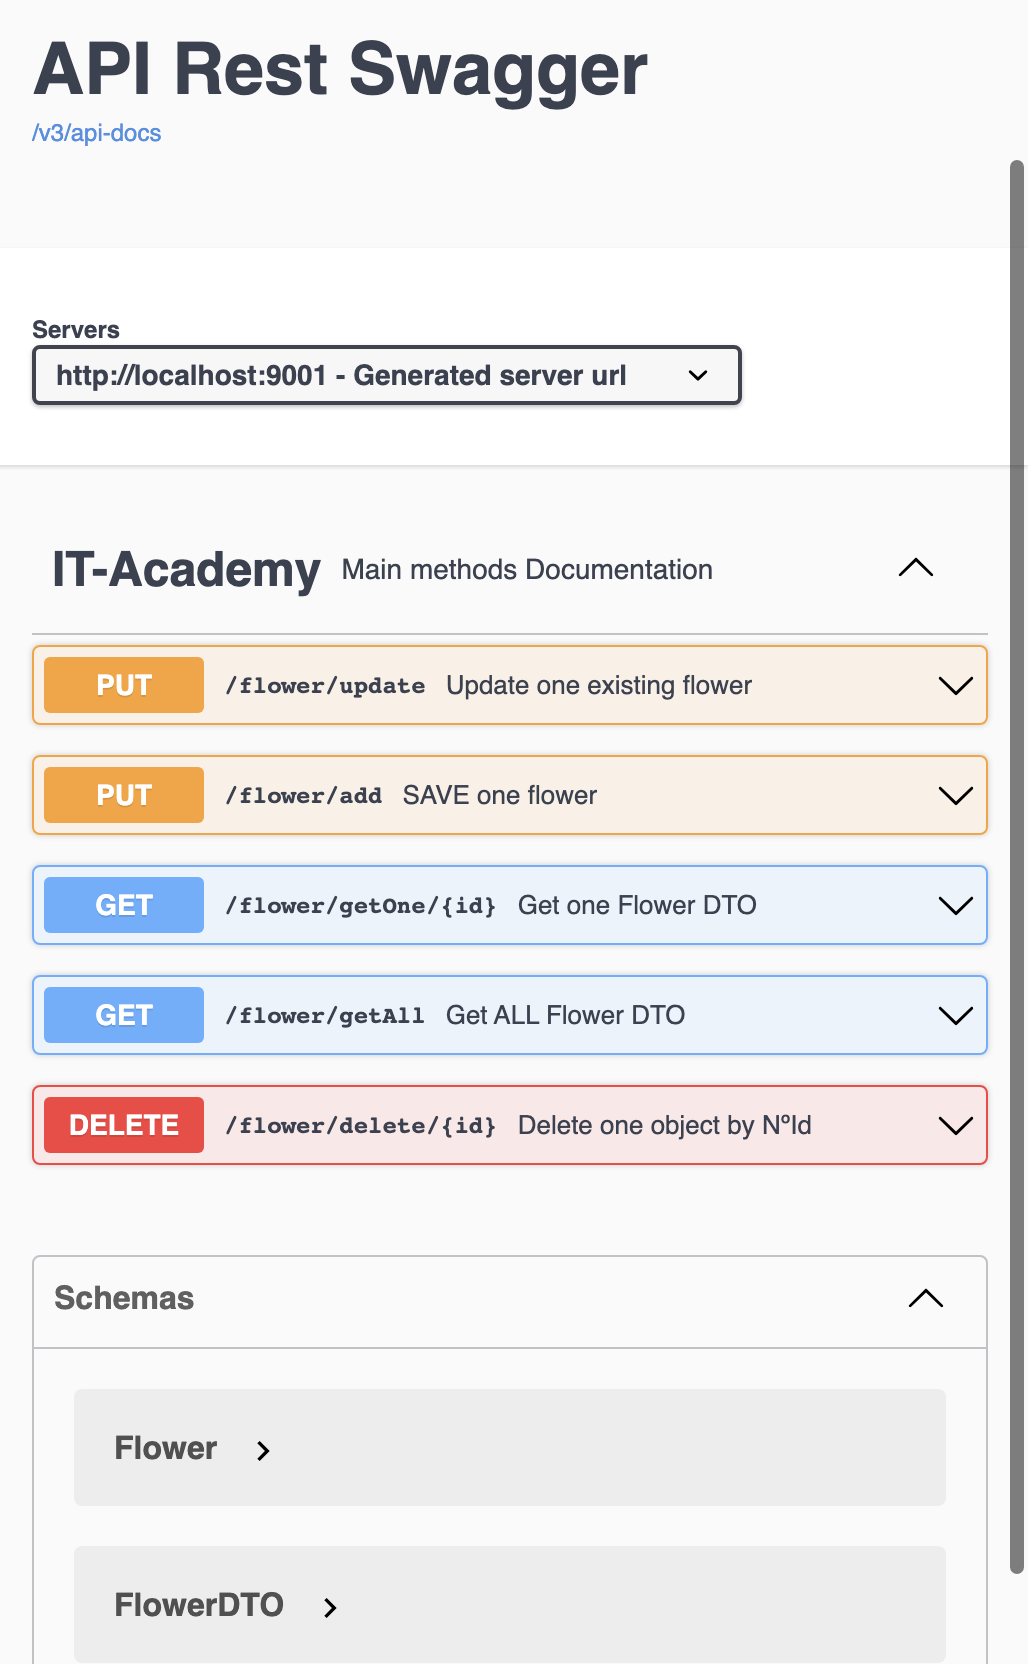
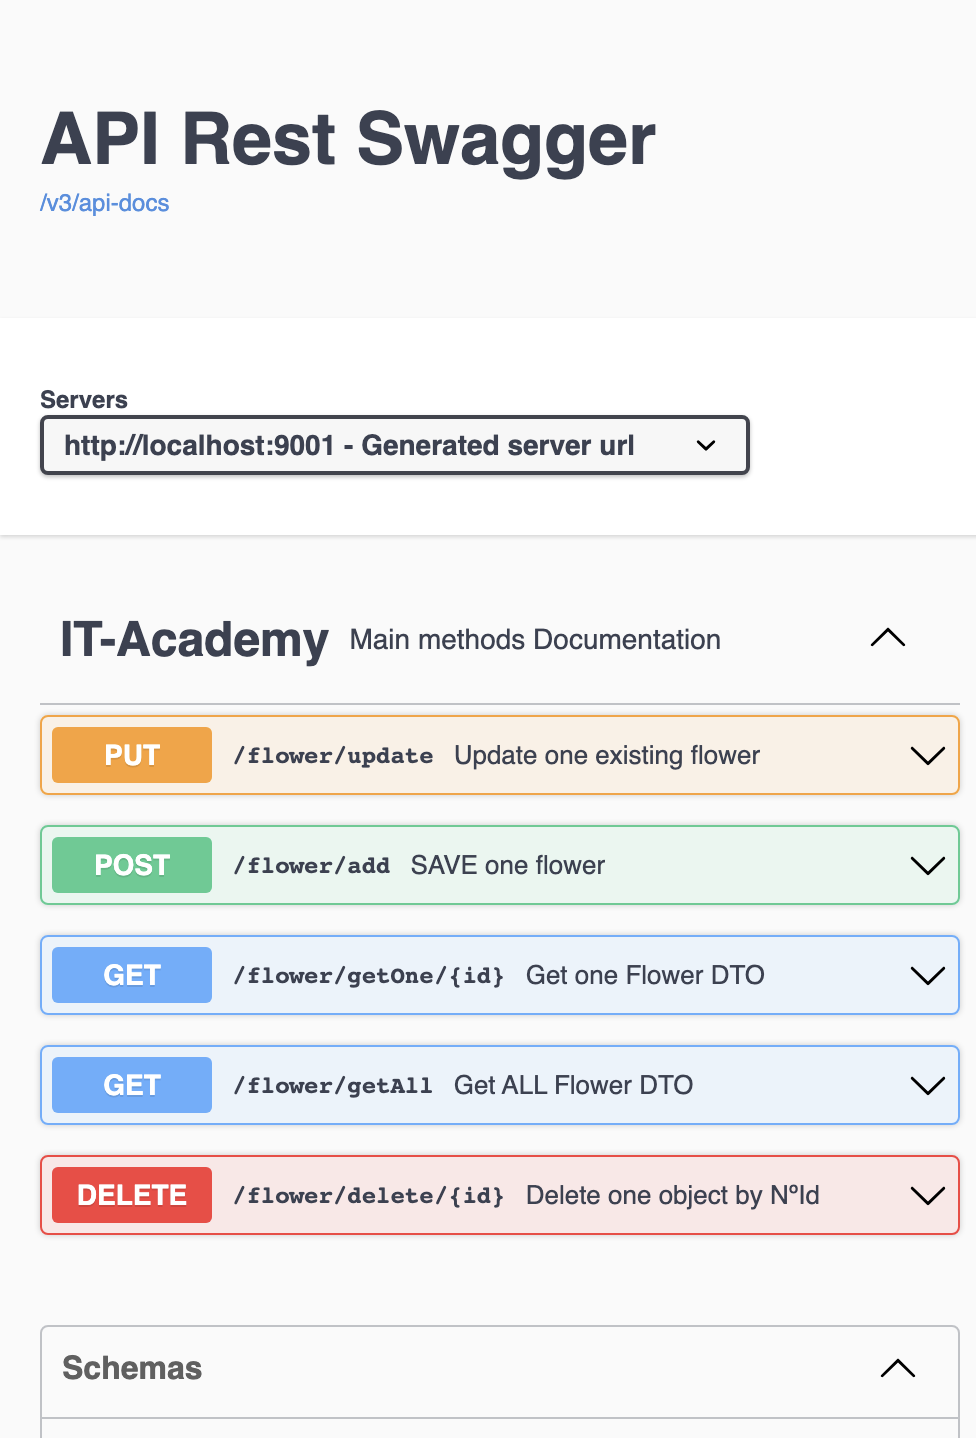
README

diff --git a/S05T01N02DebonMiquel/src/main/java/cat/itacademy/barcelonactiva/Debon/Miquel/s05/t01/n02/S05T01N02DebonMiquel/controller/FlowerController.java b/S05T01N02DebonMiquel/src/main/java/cat/itacademy/barcelonactiva/Debon/Miquel/s05/t01/n02/S05T01N02DebonMiquel/controller/FlowerController.java
@@ -1,7 +1,8 @@
 package cat.itacademy.barcelonactiva.Debon.Miquel.s05.t01.n02.S05T01N02DebonMiquel.controller;
 
 import cat.itacademy.barcelonactiva.Debon.Miquel.s05.t01.n02.S05T01N02DebonMiquel.model.DTO.FlowerDTO;
-import cat.itacademy.barcelonactiva.Debon.Miquel.s05.t01.n02.S05T01N02DebonMiquel.model.domainEntity.Flower;
+import cat.itacademy.barcelonactiva.Debon.Miquel.s05.t01.n02.S05T01N02DebonMiquel.model.DTO.FlowerDTOReturn;
+import cat.itacademy.barcelonactiva.Debon.Miquel.s05.t01.n02.S05T01N02DebonMiquel.model.DTO.FlowerDTOSchemaUpdate;
 import cat.itacademy.barcelonactiva.Debon.Miquel.s05.t01.n02.S05T01N02DebonMiquel.model.service.FlowerServiceImp;
 import cat.itacademy.barcelonactiva.Debon.Miquel.s05.t01.n02.S05T01N02DebonMiquel.model.service.IFlowerService;
 import io.swagger.v3.oas.annotations.Operation;
@@ -9,7 +10,6 @@ import io.swagger.v3.oas.annotations.Parameter;
 import io.swagger.v3.oas.annotations.media.Content;
 import io.swagger.v3.oas.annotations.media.Schema;
 import io.swagger.v3.oas.annotations.responses.ApiResponse;
-import io.swagger.v3.oas.annotations.responses.ApiResponses;
 import jakarta.validation.Valid;
 import org.slf4j.Logger;
 import org.slf4j.LoggerFactory;
@@ -23,6 +23,7 @@ import org.springframework.web.server.ResponseStatusException;
 
 import java.util.List;
 import java.util.Optional;
+import java.util.concurrent.Flow;
 
 @Controller
 @RequestMapping("/flower")
@@ -45,12 +46,13 @@ public class FlowerController {
                     required = true,
                     description = "Expected a Flower JSON",
                     content = @Content(schema = @Schema(implementation = FlowerDTO.class))),
+
             //TODO: NO estoy exponiendo usuarios demasiado?
             responses = {
                     @ApiResponse(
                             responseCode = "200",
                             description = "Successful response",
-                            content = @Content(schema = @Schema(implementation = FlowerDTO.class),
+                            content = @Content(schema = @Schema(implementation = FlowerDTOReturn.class),
                                     mediaType = MediaType.APPLICATION_JSON_VALUE)
                     ),
                     @ApiResponse(
@@ -60,15 +62,17 @@ public class FlowerController {
                     )
             }
     )
+
     public ResponseEntity<?> add(@Valid @RequestBody FlowerDTO dto){
         LOG.info("Controller - Saving method");
         try{
-            flowerService.save(dto);
-            return new ResponseEntity<>(HttpStatus.OK);
+            FlowerDTOReturn dtoReturn = flowerService.save(dto);
+            return new ResponseEntity<>(dtoReturn, HttpStatus.OK);
         }catch (Exception e){
             return new ResponseEntity<>("Not valid Flower",HttpStatus.BAD_REQUEST);
         }
     }
+
 
     @PutMapping("/update")
     @Operation(
@@ -77,16 +81,19 @@ public class FlowerController {
             requestBody = @io.swagger.v3.oas.annotations.parameters.RequestBody(
                     required = true,
                     description = "Expected a Flower JSON",
-                    content = @Content(schema = @Schema(implementation = FlowerDTO.class))
+                    content = @Content(schema = @Schema(implementation = FlowerDTOSchemaUpdate.class))
             ),
             responses = {
                     @ApiResponse(
                             responseCode = "200",
-                            description = "Successful updated"
+                            description = "Successful updated",
+                            content = @Content(schema = @Schema(implementation = FlowerDTOReturn.class),
+                                    mediaType = MediaType.APPLICATION_JSON_VALUE)
 
                     ),
                     @ApiResponse(
-                            responseCode = "400"
+                            responseCode = "400",
+                            content = @Content
                     )
             }
 
@@ -107,15 +114,33 @@ public class FlowerController {
     @Operation(
             tags = "IT-Academy",
             summary = "Delete one object by NºId",
-            description = "This method delete the object from the database"
+            description = "This method delete the object from the database",
+            responses = {
+                    @ApiResponse(
+                            responseCode = "200",
+                            description = "Successful updated",
+                            content = @Content(schema = @Schema(implementation = FlowerDTOReturn.class),
+                                    mediaType = MediaType.APPLICATION_JSON_VALUE)
 
+                    ),
+                    @ApiResponse(
+                            responseCode = "400",
+                            content = @Content
+                    )
+            }
     )
     public ResponseEntity<?> delete(@PathVariable int id){
-        LOG.info("Controller Deleting method running");
+        LOG.info("Controller  Deleting method running");
         try{
+            Optional<FlowerDTO> optionaldto = flowerService.getOne(id);
+            FlowerDTOReturn flowerDTOReturn = null;
+            if(optionaldto.isPresent()){
+                FlowerDTO dto = optionaldto.get();
+                flowerDTOReturn = new FlowerDTOReturn(dto.getName(), dto.getCountry(),dto.getEurope());
+            }
             flowerService.delete(id);
-            return new ResponseEntity<>(HttpStatus.OK);
-        }catch(ResponseStatusException rse){
+            return new ResponseEntity<>(flowerDTOReturn,HttpStatus.OK);
+        }catch(RuntimeException rse){
             return ResponseEntity.notFound().build();
         }
     }
@@ -127,7 +152,20 @@ public class FlowerController {
             summary = "Get one Flower DTO",
             description = "Description: Use the repository to extract the Flower entity " +
                     "and then became it to DTO",
-            parameters = @Parameter(name = "id", required = true, example = "1")
+            parameters = @Parameter(name = "id", required = true, example = "1"),
+            responses = {
+                    @ApiResponse(
+                            responseCode = "200",
+                            description = "Successful updated",
+                            content = @Content(schema = @Schema(implementation = FlowerDTOReturn.class),
+                                    mediaType = MediaType.APPLICATION_JSON_VALUE)
+
+                    ),
+                    @ApiResponse(
+                            responseCode = "400",
+                            content = @Content
+                    )
+            }
     )
     public ResponseEntity<?> getOne(@PathVariable int id){
             Optional<FlowerDTO> optional = flowerService.getOne(id);
@@ -148,14 +186,28 @@ public class FlowerController {
     @GetMapping("/getAll")
     @Operation(
             tags = "IT-Academy",
-            summary = "Get ALL Flower DTO"
+            summary = "Get ALL Flower DTO",
+            description = "This method retrieve all the Flower Collection",
+            responses = {
+                    @ApiResponse(
+                            responseCode = "200",
+                            description = "Successful updated",
+                            content = @Content(schema = @Schema(implementation = FlowerDTOReturn.class),
+                                    mediaType = MediaType.APPLICATION_JSON_VALUE)
+
+                    ),
+                    @ApiResponse(
+                            responseCode = "400",
+                            content = @Content
+                    )
+            }
     )
     public ResponseEntity<List<FlowerDTO>> getAll(){
         try{
             List<FlowerDTO> dtoList = flowerService.getAll();
             return new ResponseEntity<List<FlowerDTO>>(dtoList, HttpStatus.OK) ;
-        }catch (ResponseStatusException rse){
-            return new ResponseEntity<>(rse.getStatusCode());
+        }catch (RuntimeException rse){
+            return new ResponseEntity<>(HttpStatus.INTERNAL_SERVER_ERROR);
         }
     }
 

diff --git a/S05T01N02DebonMiquel/src/main/java/cat/itacademy/barcelonactiva/Debon/Miquel/s05/t01/n02/S05T01N02DebonMiquel/model/service/FlowerServiceImp.java b/S05T01N02DebonMiquel/src/main/java/cat/itacademy/barcelonactiva/Debon/Miquel/s05/t01/n02/S05T01N02DebonMiquel/model/service/FlowerServiceImp.java
@@ -1,6 +1,7 @@
 package cat.itacademy.barcelonactiva.Debon.Miquel.s05.t01.n02.S05T01N02DebonMiquel.model.service;
 
 import cat.itacademy.barcelonactiva.Debon.Miquel.s05.t01.n02.S05T01N02DebonMiquel.model.DTO.FlowerDTO;
+import cat.itacademy.barcelonactiva.Debon.Miquel.s05.t01.n02.S05T01N02DebonMiquel.model.DTO.FlowerDTOReturn;
 import cat.itacademy.barcelonactiva.Debon.Miquel.s05.t01.n02.S05T01N02DebonMiquel.model.domainEntity.Flower;
 import cat.itacademy.barcelonactiva.Debon.Miquel.s05.t01.n02.S05T01N02DebonMiquel.model.repository.FlowerRepository;
 import org.slf4j.Logger;
@@ -31,11 +32,11 @@ public class FlowerServiceImp implements IFlowerService{
         Optional<Flower> optional = repository.findById(id);
         if(optional.isPresent()){
             FlowerDTO dto = DTOfromFlower(optional.get());
-            LOG.info(String.format("Flower '%d' EXIST",id));
+            LOG.info(String.format("Service - Flower '%d' EXIST",id));
             return Optional.of(dto);
         }else{
-            LOG.warn(String.format("Flower '%d' NO EXIST",id));
-            throw new ResponseStatusException(HttpStatus.NOT_FOUND);
+            LOG.warn(String.format("Service - Flower '%d' DO NOT exist",id));
+            throw new RuntimeException();
         }
     }
     @Override
@@ -45,28 +46,36 @@ public class FlowerServiceImp implements IFlowerService{
                     .map(x -> DTOfromFlower(x))
                     .collect(Collectors.toList());
         }else{
-            throw new ResponseStatusException(HttpStatus.NOT_FOUND);
+            LOG.warn(String.format("Service - There are NO Flowers"));
+            throw new RuntimeException();
         }
     }
     @Override
     public void delete(int id) {
         if(repository.existsById(id)){
-            LOG.info("Service - Everything alright");
+            LOG.info(String.format("Service - Flower '%d' EXIST to Delete",id));
             repository.deleteById(id);
         }else{
-            LOG.warn("Service - DOES NOT Exist this ID");
-            throw new ResponseStatusException(HttpStatus.NOT_FOUND);
+            LOG.warn(String.format("Service - Flower '%d' DO NOT exist",id));
+            throw new RuntimeException();
         }
     }
+
     @Override
-    public void save(FlowerDTO dto) {
+    public FlowerDTOReturn save(FlowerDTO dto) {
+        FlowerDTO flowerDTO = new FlowerDTO(dto.getName(), dto.getCountry());
         Flower flower = flowerFromDTOSave(dto);
         repository.save(flower);
+        //Otherwise throw an exception
+        return new FlowerDTOReturn(flowerDTO.getName(), flowerDTO.getCountry(), flowerDTO.getEurope());
     }
+
+
     @Override
     public void update(FlowerDTO dto) {
         Flower flower = flowerFromDTOUpdate(dto);
         repository.save(flower);
+        //Otherwise throw an exception
     }
 
 

diff --git a/S05T01N02DebonMiquel/src/main/java/cat/itacademy/barcelonactiva/Debon/Miquel/s05/t01/n02/S05T01N02DebonMiquel/model/DTO/FlowerDTO.java b/S05T01N02DebonMiquel/src/main/java/cat/itacademy/barcelonactiva/Debon/Miquel/s05/t01/n02/S05T01N02DebonMiquel/model/DTO/FlowerDTO.java
@@ -1,11 +1,8 @@
 package cat.itacademy.barcelonactiva.Debon.Miquel.s05.t01.n02.S05T01N02DebonMiquel.model.DTO;
 
 import io.swagger.v3.oas.annotations.media.Schema;
-import jakarta.persistence.GeneratedValue;
-import jakarta.persistence.GenerationType;
 import jakarta.persistence.Id;
 import jakarta.validation.constraints.NotEmpty;
-import lombok.AllArgsConstructor;
 import lombok.Data;
 import lombok.NoArgsConstructor;
 
@@ -17,18 +14,19 @@ public class FlowerDTO {
     private int id;
 
     @NotEmpty(message = "Name is mandatory")
-    @Schema(defaultValue = "MiquelFlower", description = "Name of the Flower")
+    @Schema(defaultValue = "Rose", description = "Flower's Name")
     private String name;
     @NotEmpty(message = "Country is mandatory")
-    @Schema(defaultValue = "Spain")
+    @Schema(defaultValue = "Spain", description = "Flower's Country")
     private String country;
-    @Schema()
-    private String Europe;
+
+    @Schema(hidden = true)
+    private String europe;
 
     public FlowerDTO( String name, String country){
         this.name = name;
         this.country = country;
-        this.Europe = UECountries.UEcountriesList.stream()
+        this.europe = UECountries.UEcountriesList.stream()
                 .map(String::toLowerCase)
                 .anyMatch(country.toLowerCase()::contains) ? "UE" : "Fora UE";
     }
@@ -36,7 +34,7 @@ public class FlowerDTO {
         this.id = id;
         this.name = name;
         this.country = country;
-        this.Europe = UECountries.UEcountriesList.stream()
+        this.europe = UECountries.UEcountriesList.stream()
                 .map(String::toLowerCase)
                 .anyMatch(country.toLowerCase()::contains) ? "UE" : "Fora UE";
     }

diff --git a/S05T01N02DebonMiquel/src/main/java/cat/itacademy/barcelonactiva/Debon/Miquel/s05/t01/n02/S05T01N02DebonMiquel/model/DTO/FlowerDTOReturn.java b/S05T01N02DebonMiquel/src/main/java/cat/itacademy/barcelonactiva/Debon/Miquel/s05/t01/n02/S05T01N02DebonMiquel/model/DTO/FlowerDTOReturn.java
@@ -1,26 +1,20 @@
 package cat.itacademy.barcelonactiva.Debon.Miquel.s05.t01.n02.S05T01N02DebonMiquel.model.DTO;
 
 import io.swagger.v3.oas.annotations.media.Schema;
-import jakarta.persistence.Id;
-import jakarta.validation.constraints.NotEmpty;
+import lombok.Data;
 
-public class FlowerReturn {
-
-    @NotEmpty(message = "Name is mandatory")
+@Data
+public class FlowerDTOReturn {
     @Schema(defaultValue = "Rose", description = "Flower's Name")
     private String name;
-    @NotEmpty(message = "Country is mandatory")
     @Schema(defaultValue = "Spain", description = "Flower's Country")
     private String country;
-
-    @Schema(hidden = true)
+    @Schema(defaultValue = "EU / No EU", description = "Flower is from Europe?")
     private String europe;
 
-    public FlowerDTO( String name, String country){
+    public FlowerDTOReturn( String name, String country, String europe){
         this.name = name;
         this.country = country;
-        this.europe = UECountries.UEcountriesList.stream()
-                .map(String::toLowerCase)
-                .anyMatch(country.toLowerCase()::contains) ? "UE" : "Fora UE";
+        this.europe = europe;
     }
 }

diff --git a/S05T01N02DebonMiquel/src/main/java/cat/itacademy/barcelonactiva/Debon/Miquel/s05/t01/n02/S05T01N02DebonMiquel/model/service/IFlowerService.java b/S05T01N02DebonMiquel/src/main/java/cat/itacademy/barcelonactiva/Debon/Miquel/s05/t01/n02/S05T01N02DebonMiquel/model/service/IFlowerService.java
@@ -1,6 +1,7 @@
 package cat.itacademy.barcelonactiva.Debon.Miquel.s05.t01.n02.S05T01N02DebonMiquel.model.service;
 
 import cat.itacademy.barcelonactiva.Debon.Miquel.s05.t01.n02.S05T01N02DebonMiquel.model.DTO.FlowerDTO;
+import cat.itacademy.barcelonactiva.Debon.Miquel.s05.t01.n02.S05T01N02DebonMiquel.model.DTO.FlowerDTOReturn;
 import cat.itacademy.barcelonactiva.Debon.Miquel.s05.t01.n02.S05T01N02DebonMiquel.model.domainEntity.Flower;
 
 import java.util.List;
@@ -11,7 +12,7 @@ public interface IFlowerService {
     Optional<FlowerDTO> getOne(int id);
     List<FlowerDTO> getAll();
     void delete(int id);
-    void save(FlowerDTO dto);
+    FlowerDTOReturn save(FlowerDTO dto);
     void update(FlowerDTO dto);
 
 }

diff --git a/S05T01N02DebonMiquel/src/main/java/cat/itacademy/barcelonactiva/Debon/Miquel/s05/t01/n02/S05T01N02DebonMiquel/model/DTO/FlowerDTOSchemaUpdate.java b/S05T01N02DebonMiquel/src/main/java/cat/itacademy/barcelonactiva/Debon/Miquel/s05/t01/n02/S05T01N02DebonMiquel/model/DTO/FlowerDTOSchemaUpdate.java
@@ -1,14 +1,12 @@
 package cat.itacademy.barcelonactiva.Debon.Miquel.s05.t01.n02.S05T01N02DebonMiquel.model.DTO;
 
 import io.swagger.v3.oas.annotations.media.Schema;
-import io.swagger.v3.oas.annotations.media.SchemaProperties;
-import io.swagger.v3.oas.annotations.media.SchemaProperty;
 import jakarta.persistence.Id;
 import lombok.Data;
 
 @Data
 @Schema(hidden = true)
-public class FlowerSchemaUpdate {
+public class FlowerDTOSchemaUpdate {
 
     //This class is use as the Scheme for the UPDATE method
 

diff --git a/README.md b/README.md
@@ -7,11 +7,18 @@ All methods
 ![All methods](S05T01N02DebonMiquel/src/main/resources/static/images/allMethods.png)
 
 - Save
-![save](S05T01N02DebonMiquel/src/main/resources/static/images/add.png)
+![save](S05T01N02DebonMiquel/src/main/resources/static/images/save.png)
+- Update
+  ![update](S05T01N02DebonMiquel/src/main/resources/static/images/update.png)
+- GetOne
+  ![getOne](S05T01N02DebonMiquel/src/main/resources/static/images/getOne.png)
 - GetAll
   ![save](S05T01N02DebonMiquel/src/main/resources/static/images/getAll.png)
+- Delete
+  ![delete](S05T01N02DebonMiquel/src/main/resources/static/images/delete.png)
 
 
 References:
 - [Swagger - Extended course](https://www.youtube.com/watch?v=0vqgWQIVfMI&t=2538s)
 - [Swagger - Summary course](https://www.youtube.com/watch?v=2o_3hjUPAfQ)
+- [Documnetation](https://www.bezkoder.com/swagger-3-annotations/)
